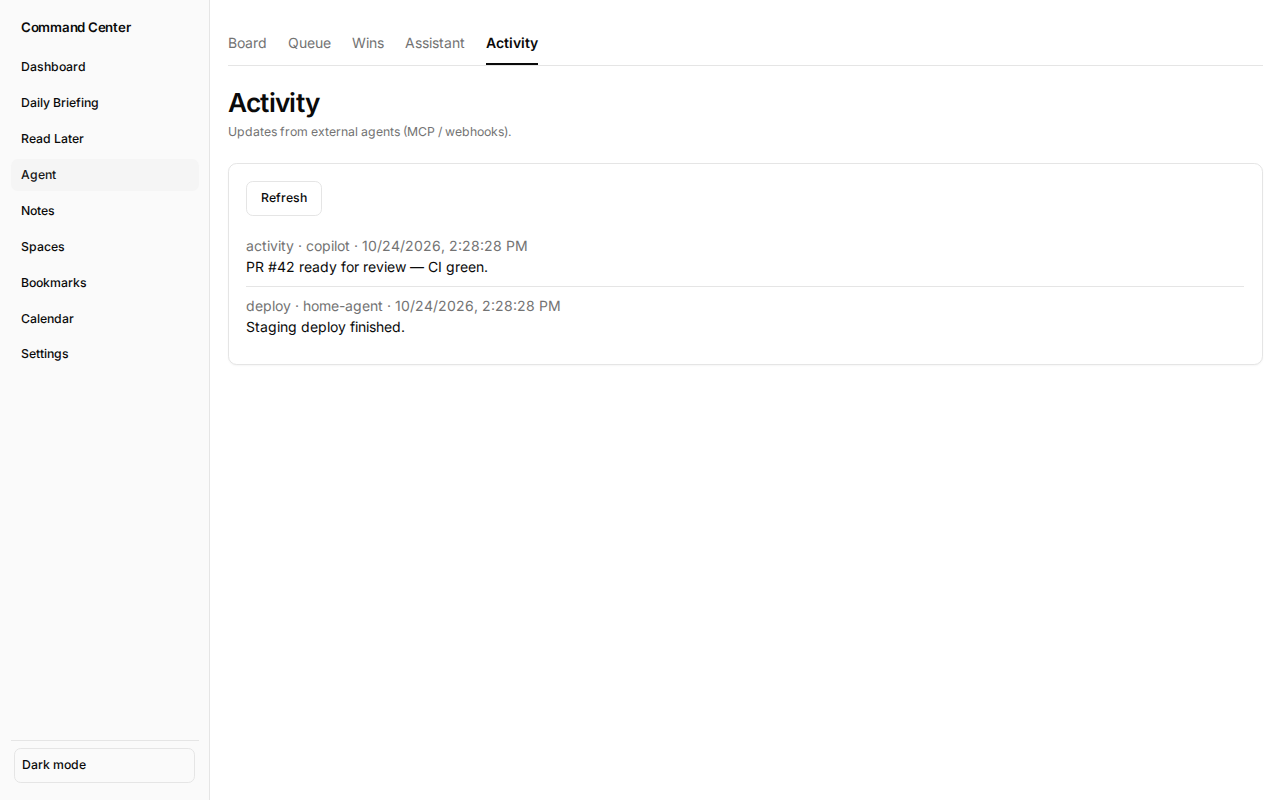
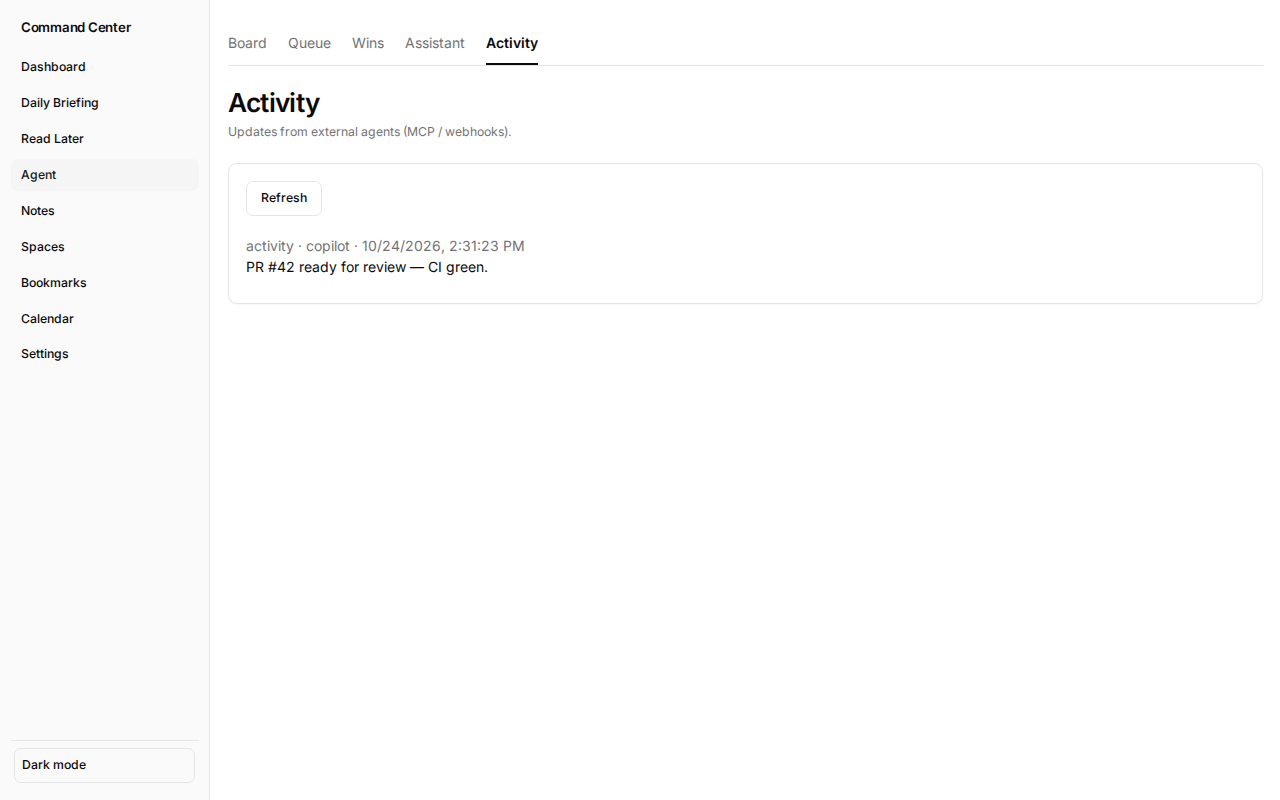
Fix dashboard v1 mobile layout, heatmap seed, attention data, and screenshots
Stacked panels grow to full height under 900px; enlarge default panel
heights; seed heatmap and attention fixtures; owner 403 copy; full-page
attention screenshot plus panel crop.

Changed region(s): [[0.1875, 0.375, 0.4375, 0.4375], [0.375, 0.2812, 0.4062, 0.3125]]

diff --git a/apps/server/scripts/seed-dashboard-screenshot.ts b/apps/server/scripts/seed-dashboard-screenshot.ts
@@ -1,11 +1,13 @@
 /**
  * Seed /data for dashboard v1 screenshots: tasks, attention, heatmap, launchpad, and legacy panels.
  */
-import { mkdir, writeFile } from "node:fs/promises";
+import { mkdir, readFile, writeFile } from "node:fs/promises";
 import { join } from "node:path";
+import { DatabaseSync } from "node:sqlite";
 import { defaultDashboardLayout } from "../src/dashboard-layout/defaults";
 import { briefingDayPath, writeBriefingFile } from "../src/daily-briefing/storage";
 import type { DailyBriefingRecord } from "../src/daily-briefing/types";
+import { DATABASE_FILE, initSchema } from "../src/database";
 import { NotesStore } from "../src/notes/store";
 import { panels } from "../src/panels/registry";
 import { SettingsStore } from "../src/settings";
@@ -16,11 +18,42 @@ import { PanelUpdatesStore } from "../src/stores/panel-updates";
 import { LaunchpadStore } from "../src/launchpad/store";
 import { ensureDirs } from "../src/store";
 
+async function patchKnowledgeNoteTimes(
+  dir: string,
+  patches: Array<{ title: string; createdAt?: string; updatedAt?: string }>,
+): Promise<void> {
+  const path = join(dir, "knowledge.json");
+  const raw = JSON.parse(await readFile(path, "utf8")) as { notes: Array<Record<string, unknown>> };
+  for (const patch of patches) {
+    const note = raw.notes.find((n) => n.title === patch.title);
+    if (!note) throw new Error(`seed note not found: ${patch.title}`);
+    if (patch.createdAt) note.createdAt = patch.createdAt;
+    if (patch.updatedAt) note.updatedAt = patch.updatedAt;
+  }
+  await writeFile(path, JSON.stringify(raw, null, 2));
+}
+
+function seedHeatmapEvents(dir: string, cardId: string, now: Date): void {
+  const db = new DatabaseSync(join(dir, DATABASE_FILE));
+  initSchema(db);
+  const insert = db.prepare(`INSERT INTO card_events (card_id, from_col, to_col, at) VALUES (?, ?, ?, ?)`);
+  for (let week = 0; week < 12; week++) {
+    const day = new Date(now);
+    day.setUTCDate(day.getUTCDate() - week * 7);
+    day.setUTCHours(14, week % 5, 0, 0);
+    insert.run(cardId, week % 2 ? "Backlog" : "Waiting", week % 2 ? "Waiting" : "Backlog", day.toISOString());
+  }
+  db.close();
+}
+
 async function main() {
   const dir = process.env.DATA_DIR ?? "/tmp/cc-dashboard-screenshot";
   await ensureDirs(dir);
   const now = new Date();
   const today = now.toISOString().slice(0, 10);
+  const yearAgoToday = new Date(now);
+  yearAgoToday.setUTCFullYear(yearAgoToday.getUTCFullYear() - 1);
+  const staleUpdated = new Date(now.getTime() - 120 * 86_400_000);
 
   const settings = new SettingsStore(dir);
   await settings.load();
@@ -28,18 +61,24 @@ async function main() {
 
   const notes = await NotesStore.open(dir);
   await notes.write("# Dashboard seed\n");
-  const research = await notes.createNote({
-    title: "Q4 planning notes",
-    content: "Outline milestones and risks.",
-    tags: ["planning"],
+
+  const sessionNote = await notes.createNote({
+    title: "API integration draft",
+    content: "First pass on endpoints.",
+    tags: ["work"],
   });
-  await notes.updateNote(research.id, { content: "Outline milestones, risks, and staffing.\n" });
-  const yearAgo = new Date(now);
-  yearAgo.setUTCFullYear(yearAgo.getUTCFullYear() - 1);
+  await notes.updateNote(sessionNote.id, { content: "Second pass on endpoints and tests.\n" });
+  await notes.updateNote(sessionNote.id, { content: "Third pass — ready for review.\n" });
+
   await notes.createNote({
     title: "Launch retrospective",
     content: "Shipped dashboard v1.",
     tags: ["history"],
+  });
+  await notes.createNote({
+    title: "Old research draft",
+    content: "Ideas to revisit when capacity opens up.",
+    tags: ["research"],
   });
   await notes.createSource({
     title: "Agent security primer",
@@ -48,9 +87,25 @@ async function main() {
     tags: ["reading"],
   });
 
+  await patchKnowledgeNoteTimes(dir, [
+    { title: "Launch retrospective", createdAt: yearAgoToday.toISOString(), updatedAt: yearAgoToday.toISOString() },
+    { title: "Old research draft", updatedAt: staleUpdated.toISOString() },
+  ]);
+  const knowledge = JSON.parse(await readFile(join(dir, "knowledge.json"), "utf8")) as {
+    notes: Array<{ title: string; updatedAt: string }>;
+    sources: Array<{ title: string; updatedAt: string }>;
+  };
+  const source = knowledge.sources.find((s) => s.title === "Agent security primer");
+  if (source) source.updatedAt = staleUpdated.toISOString();
+  for (let week = 1; week < 6; week++) {
+    const edited = new Date(now.getTime() - week * 7 * 86_400_000);
+    const note = knowledge.notes.find((n) => n.title === "API integration draft");
+    if (note && week === 1) note.updatedAt = edited.toISOString();
+  }
+  await writeFile(join(dir, "knowledge.json"), JSON.stringify(knowledge, null, 2));
+
   const panelUpdates = await PanelUpdatesStore.open(dir);
   await panelUpdates.append({ clientId: "copilot", panel: "activity", markdown: "PR #42 ready for review — CI green." });
-  await panelUpdates.append({ clientId: "home-agent", panel: "deploy", markdown: "Staging deploy finished." });
 
   const hobie = await HobieQueueStore.open(dir);
   await hobie.enqueue({ clientId: "copilot", title: "Review Q4 deck", body: "Focus on budget slide.", urgent: true }, 20);
@@ -73,24 +128,30 @@ async function main() {
   board.create({ title: "Polish board drag UX", column: "Backlog", priority: "low" });
   const handoff = board.create({ title: "Hand off to Hobie agent", column: "Backlog" });
   await board.move(handoff.id, "Ready for Hobie", { hobieQueue: hobie, maxHobiePending: 20 });
+  const activityCard = board.create({ title: "Heatmap activity card", column: "Backlog" });
+  await board.move(activityCard.id, "Waiting");
+  await board.move(activityCard.id, "Backlog");
   board.create({ title: "Ship screenshot seeds", column: "Done" });
-  await board.move(dueSoon.id, "Blocked on me");
-  await board.move(dueSoon.id, "Backlog");
+
+  seedHeatmapEvents(dir, activityCard.id, now);
 
   const wins = WinsStore.open(dir);
-  wins.add({ source: "manual", ref: "seed-1", title: "Dashboard v1 panels shipped", at: now.toISOString() });
-  wins.add({
-    source: "manual",
-    ref: "seed-2",
-    title: "Attention feed tuned",
-    at: new Date(now.getTime() - 5 * 86_400_000).toISOString(),
-  });
+  for (let week = 0; week < 8; week++) {
+    const at = new Date(now.getTime() - week * 7 * 86_400_000);
+    wins.add({
+      source: "manual",
+      ref: `seed-win-${week}`,
+      title: `Weekly win ${week + 1}`,
+      at: at.toISOString(),
+    });
+  }
 
   const launchpad = await LaunchpadStore.open(dir);
   await launchpad.add({ label: "Board", url: "https://example.com/board", emoji: "📋" });
   await launchpad.add({ label: "Briefing", url: "https://example.com/briefing", emoji: "☀" });
   await launchpad.add({ label: "Calendar", url: "https://example.com/calendar", emoji: "📅" });
   await launchpad.add({ label: "Docs", url: "https://example.com/docs" });
+  await launchpad.add({ label: "Notes", url: "https://example.com/notes", emoji: "📝" });
 
   await writeFile(
     join(dir, "attention.json"),

diff --git a/apps/server/test/dashboard-v1.test.ts b/apps/server/test/dashboard-v1.test.ts
@@ -1,8 +1,10 @@
 import { test } from "node:test";
 import assert from "node:assert/strict";
+import { spawn } from "node:child_process";
 import { mkdtemp, rm } from "node:fs/promises";
 import { join } from "node:path";
 import { tmpdir } from "node:os";
+import { fileURLToPath } from "node:url";
 import type { AddressInfo } from "node:net";
 import { SESSION_GAP_MS, buildSessions } from "../src/attention/sessions";
 import { pickRediscover } from "../src/attention/rediscover";
@@ -23,8 +25,7 @@ import { panels } from "../src/panels/registry";
 import { closeIntegrationServer, openIntegrationStores } from "./helpers";
 
 const TOKEN = "d".repeat(32);
-const OWNER_MSG =
-  "Connection management requires a verified owner login. Set OWNER_EMAILS and sign in through Cloudflare Access; machine/admin tokens cannot manage keys.";
+import { OWNER_ACTION_FORBIDDEN } from "../src/owner-auth";
 
 function card(partial: Partial<BoardCard> & Pick<BoardCard, "id" | "title">): BoardCard {
   return {
@@ -120,6 +121,43 @@ test("attention store: drops expired snoozes on load", async () => {
   }
 });
 
+async function seedDashboardDir(dir: string): Promise<void> {
+  const serverDir = join(fileURLToPath(new URL(".", import.meta.url)), "..");
+  await new Promise<void>((resolve, reject) => {
+    const seed = spawn("pnpm", ["exec", "tsx", "scripts/seed-dashboard-screenshot.ts"], {
+      cwd: serverDir,
+      env: { ...process.env, DATA_DIR: dir, TZ: "UTC" },
+      stdio: "inherit",
+    });
+    seed.on("exit", (code) => (code === 0 ? resolve() : reject(new Error(`seed exited ${code}`))));
+  });
+}
+
+test("heatmap API returns non-zero seeded counts and intensity levels", async () => {
+  const dir = await mkdtemp(join(tmpdir(), "cc-heatmap-api-"));
+  const cfg = loadConfig({ DATA_DIR: dir, ADMIN_TOKEN: TOKEN, ALLOW_INSECURE_NO_AUTH: "1", TZ: "UTC" });
+  await seedDashboardDir(dir);
+  const settings = new SettingsStore(dir);
+  await settings.load();
+  const dailyBriefing = await DailyBriefingService.open(dir, cfg.tz);
+  const notes = await NotesStore.open(dir);
+  const integration = await openIntegrationStores(dir, cfg);
+  const server = createApp({ cfg, auth: makeAuthenticator(cfg), settings, dailyBriefing, notes, ...integration });
+  await new Promise<void>((r) => server.listen(0, "127.0.0.1", r));
+  const base = `http://127.0.0.1:${(server.address() as AddressInfo).port}`;
+  try {
+    const res = await fetch(`${base}/api/dashboard/heatmap`, { headers: { authorization: `Bearer ${TOKEN}` } });
+    assert.equal(res.status, 200);
+    const body = (await res.json()) as { days: Array<{ count: number; level: number }> };
+    const active = body.days.filter((d) => d.count > 0);
+    assert.ok(active.length >= 3, `expected seeded activity days, got ${active.length}`);
+    assert.ok(active.some((d) => d.level > 0), "expected at least one non-zero intensity level");
+  } finally {
+    await closeIntegrationServer(server, integration);
+    await rm(dir, { recursive: true, force: true });
+  }
+});
+
 test("heatmap: aggregates counts per local day", () => {
   const { days } = heatmapDateRange(new Date("2026-10-24T15:00:00.000Z"));
   const counts = aggregateDailyCounts(
@@ -167,7 +205,7 @@ test("dashboard v1 write routes require owner", async () => {
       const res = await fetch(`${base}${path}`, { method: "POST", headers, body: JSON.stringify(body) });
       assert.equal(res.status, 403);
       const json = await res.json();
-      assert.equal(json.error, OWNER_MSG);
+      assert.equal(json.error, OWNER_ACTION_FORBIDDEN);
     }
     const layoutRes = await fetch(`${base}/api/dashboard-layout/import`, {
       method: "POST",

diff --git a/apps/server/src/ui/dashboard-grid.ts b/apps/server/src/ui/dashboard-grid.ts
@@ -54,8 +54,15 @@ export const dashboardGridCss = `
 #panel-notes #notes-editor{min-height:3rem;flex:1;max-height:100%;resize:none;font-size:.8125rem}
 #panel-notes .dim{font-size:.75rem;margin:0}
 @media(max-width:900px){
-  .dashboard-grid{grid-template-columns:repeat(6,minmax(0,1fr))}
-  .dashboard-item{grid-column:1/-1!important;grid-row:auto!important;height:auto!important}
+  .app-shell:has(.dashboard-page){height:auto;max-height:none;overflow:visible}
+  .page-content:has(.dashboard-page){overflow:visible;flex:none;min-height:auto}
+  .dashboard-page{flex:none;min-height:auto}
+  .dashboard-grid{grid-template-columns:repeat(6,minmax(0,1fr));height:auto!important;max-height:none!important;grid-template-rows:none!important}
+  .dashboard-grid.is-stacked .dashboard-item{height:auto!important;max-height:none!important}
+  .dashboard-item{grid-column:1/-1!important;grid-row:auto!important;height:auto!important;max-height:none!important;overflow:visible}
+  .dashboard-item:not(.is-collapsed)>.card{height:auto;overflow:visible}
+  .dashboard-item:not(.is-collapsed) .dashboard-panel-body{overflow:visible;flex:none;min-height:auto}
+  .dashboard-item:not(.is-collapsed) .dashboard-panel-body .panel-scroll-region{overflow:visible;flex:none;min-height:auto}
   .dashboard-drag-handle,.dashboard-resize{display:none}
 }
 `;
@@ -86,7 +93,16 @@ export function dashboardGridScript(): string {
     var hits=(panels||[]).filter(function(p){return panelCoversRow(p,row)});
     return hits.length>0&&hits.every(function(p){return p.collapsed});
   }
+  function isStacked(){return window.matchMedia("(max-width: 900px)").matches}
   function syncGridRows(panels){
+    if(isStacked()){
+      grid.classList.add("is-stacked");
+      grid.style.gridTemplateRows="";
+      grid.style.height="auto";
+      grid.style.maxHeight="none";
+      return;
+    }
+    grid.classList.remove("is-stacked");
     var maxEnd=layoutMaxEnd(panels);
     grid.style.setProperty("--dash-rows",String(maxEnd));
     var page=document.querySelector(".dashboard-page");

diff --git a/apps/server/src/dashboard-layout/defaults.ts b/apps/server/src/dashboard-layout/defaults.ts
@@ -13,18 +13,18 @@ export const DEFAULT_COLLAPSED_PANEL_IDS = new Set<string>([
 
 /** Compact layout for the personal dashboard panels. */
 export const DEFAULT_PANEL_LAYOUT: PanelLayoutEntry[] = [
-  { id: "tasks", x: 0, y: 0, w: 4, h: 3 },
-  { id: "attention", x: 4, y: 0, w: 5, h: 3 },
-  { id: "heatmap", x: 9, y: 0, w: 3, h: 2 },
-  { id: "launchpad", x: 9, y: 2, w: 3, h: 2 },
-  { id: "daily-briefing", x: 0, y: 3, w: 6, h: 2 },
-  { id: "calendar", x: 6, y: 3, w: 3, h: 2, collapsed: true },
-  { id: "weather", x: 9, y: 3, w: 3, h: 2 },
-  { id: "activity", x: 0, y: 5, w: 3, h: 2, collapsed: true },
-  { id: "hobie", x: 3, y: 5, w: 3, h: 2, collapsed: true },
-  { id: "notes", x: 6, y: 5, w: 3, h: 2, collapsed: true },
-  { id: "host-health", x: 9, y: 5, w: 3, h: 2, collapsed: true },
-  { id: "recallio", x: 0, y: 7, w: 3, h: 2, collapsed: true },
+  { id: "tasks", x: 0, y: 0, w: 4, h: 4 },
+  { id: "attention", x: 4, y: 0, w: 5, h: 4 },
+  { id: "heatmap", x: 9, y: 0, w: 3, h: 3 },
+  { id: "launchpad", x: 9, y: 3, w: 3, h: 3 },
+  { id: "daily-briefing", x: 0, y: 4, w: 6, h: 2 },
+  { id: "calendar", x: 6, y: 4, w: 3, h: 2, collapsed: true },
+  { id: "weather", x: 9, y: 6, w: 3, h: 2 },
+  { id: "activity", x: 0, y: 6, w: 3, h: 2, collapsed: true },
+  { id: "hobie", x: 3, y: 6, w: 3, h: 2, collapsed: true },
+  { id: "notes", x: 6, y: 6, w: 3, h: 2, collapsed: true },
+  { id: "host-health", x: 0, y: 8, w: 3, h: 2, collapsed: true },
+  { id: "recallio", x: 3, y: 8, w: 3, h: 2, collapsed: true },
 ];
 
 const DEFAULT_BY_ID = new Map(DEFAULT_PANEL_LAYOUT.map((p) => [p.id, p]));

diff --git a/apps/server/src/http.ts b/apps/server/src/http.ts
@@ -46,6 +46,7 @@ import { zip } from "./read-later/zip";
 import { dashboardPage, settingsPage } from "./ui/pages";
 import type { AttentionStore } from "./attention/store";
 import type { LaunchpadStore } from "./launchpad/store";
+import { OWNER_ACTION_FORBIDDEN } from "./owner-auth";
 import { connectionProvider, type ConnectionsStore } from "./connections";
 import { connectionsPage } from "./ui/connections-page";
 import { notesEditorScript } from "./ui/notes-editor-asset";
@@ -303,11 +304,7 @@ export function createApp(app: App): Server {
         return json(res, 200, { layout });
       }
       if (req.method === "POST" && path === "/api/dashboard-layout/import") {
-        if (!who.owner) {
-          return json(res, 403, {
-            error: "Connection management requires a verified owner login. Set OWNER_EMAILS and sign in through Cloudflare Access; machine/admin tokens cannot manage keys.",
-          });
-        }
+        if (!who.owner) return json(res, 403, { error: OWNER_ACTION_FORBIDDEN });
         const layout = await app.dashboardLayout.update(await readBody(req, 64_000));
         return json(res, 200, { layout });
       }

diff --git a/apps/server/scripts/capture-ui-screenshots.ts b/apps/server/scripts/capture-ui-screenshots.ts
@@ -115,12 +115,22 @@ const DASHBOARD_V1_SHOTS: Shot[] = [
     prepare: async (page) => {
       await page.waitForSelector("#panel-tasks #tasks-list li", { timeout: 20_000 });
       await page.waitForSelector("#panel-attention .attention-reason", { timeout: 20_000 });
-      await page.waitForSelector("#panel-heatmap .heatmap-cell", { timeout: 20_000 });
+      await page.waitForSelector("#panel-heatmap .heatmap-cell.level-1, #panel-heatmap .heatmap-cell.level-2", { timeout: 20_000 });
       await page.waitForSelector("#panel-launchpad .launchpad-tile", { timeout: 20_000 });
     },
   },
   {
     out: "docs/screenshots/dashboard-v1/attention-1280x800.png",
+    path: "/",
+    marker: "Dashboard",
+    prepare: async (page) => {
+      await page.waitForSelector(".attention-block h3", { timeout: 20_000 });
+      await page.waitForFunction(() => document.querySelectorAll(".attention-block").length >= 4);
+      await page.locator("#panel-attention").scrollIntoViewIfNeeded();
+    },
+  },
+  {
+    out: "docs/screenshots/dashboard-v1/attention-panel.png",
     path: "/",
     marker: "Dashboard",
     clipSelector: "#panel-attention",

diff --git a/apps/server/test/dashboard.browser.ts b/apps/server/test/dashboard.browser.ts
@@ -61,6 +61,9 @@ test("dashboard v1 panels load in browser", { timeout: 120_000 }, async () => {
     await page.waitForSelector("#panel-attention .attention-reason", { timeout: 20_000 });
     await page.waitForSelector("#panel-heatmap .heatmap-cell.level-1, #panel-heatmap .heatmap-cell.level-2", { timeout: 20_000 });
     await page.waitForSelector("#panel-launchpad .launchpad-tile", { timeout: 20_000 });
+    assert.ok(await page.locator(".attention-block h3", { hasText: "Continue working" }).count());
+    assert.ok(await page.locator(".attention-block h3", { hasText: "On this day" }).count());
+    assert.ok(await page.locator(".attention-block h3", { hasText: "Rediscover" }).count());
     assert.match(await page.locator("h1").first().textContent() ?? "", /Dashboard/i);
     await page.setViewportSize({ width: 390, height: 844 });
     assert.ok(await page.locator("#dashboard-grid .dashboard-item").count() >= 4);

diff --git a/apps/server/src/panels/launchpad.ts b/apps/server/src/panels/launchpad.ts
@@ -1,12 +1,11 @@
 import type { PanelModule } from "./types";
 import { ValidationError } from "../settings";
 
-const OWNER_MSG =
-  "Connection management requires a verified owner login. Set OWNER_EMAILS and sign in through Cloudflare Access; machine/admin tokens cannot manage keys.";
+import { OWNER_ACTION_FORBIDDEN } from "../owner-auth";
 
 function ownerDenied(res: import("node:http").ServerResponse): void {
   res.writeHead(403, { "content-type": "application/json", "cache-control": "no-store" });
-  res.end(JSON.stringify({ error: OWNER_MSG }));
+  res.end(JSON.stringify({ error: OWNER_ACTION_FORBIDDEN }));
 }
 
 async function readJsonBody(req: import("node:http").IncomingMessage): Promise<Record<string, unknown>> {

diff --git a/apps/server/src/panels/attention.ts b/apps/server/src/panels/attention.ts
@@ -5,12 +5,11 @@ import { dayKey } from "../store";
 import { ValidationError } from "../settings";
 import type { PanelModule } from "./types";
 
-const OWNER_MSG =
-  "Connection management requires a verified owner login. Set OWNER_EMAILS and sign in through Cloudflare Access; machine/admin tokens cannot manage keys.";
+import { OWNER_ACTION_FORBIDDEN } from "../owner-auth";
 
 function ownerDenied(res: import("node:http").ServerResponse): void {
   res.writeHead(403, { "content-type": "application/json", "cache-control": "no-store" });
-  res.end(JSON.stringify({ error: OWNER_MSG }));
+  res.end(JSON.stringify({ error: OWNER_ACTION_FORBIDDEN }));
 }
 
 export const attentionPanel: PanelModule = {

diff --git a/apps/server/test/dashboard-layout.test.ts b/apps/server/test/dashboard-layout.test.ts
@@ -88,7 +88,7 @@ test("dashboard layout: default collapses low-priority panels without retired ti
   assert.equal(layout.panels.find((p) => p.id === "calendar")?.collapsed, true);
   assert.equal(layout.panels.find((p) => p.id === "notes")?.collapsed, true);
   const maxEnd = layout.panels.reduce((m, p) => Math.max(m, p.y + (p.collapsed ? 1 : p.h)), 0);
-  assert.ok(maxEnd <= 10, "default layout should stay compact");
+  assert.ok(maxEnd <= 11, "default layout should stay compact");
 });
 
 test("dashboard layout: normalize adds missing panels and drops unknown ids", () => {

diff --git a/apps/server/src/owner-auth.ts b/apps/server/src/owner-auth.ts
@@ -1,0 +1,3 @@
+/** Shown when a dashboard write requires Cloudflare Access owner identity. */
+export const OWNER_ACTION_FORBIDDEN =
+  "This action requires a verified owner login. Set OWNER_EMAILS and sign in through Cloudflare Access.";
